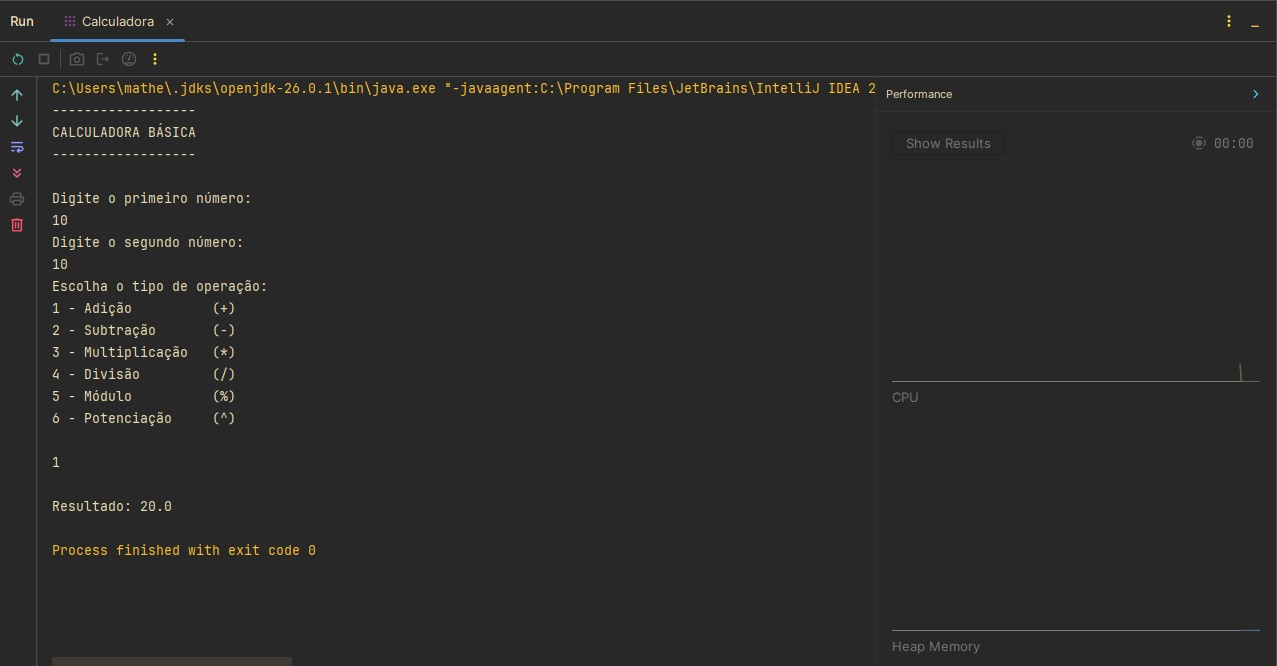
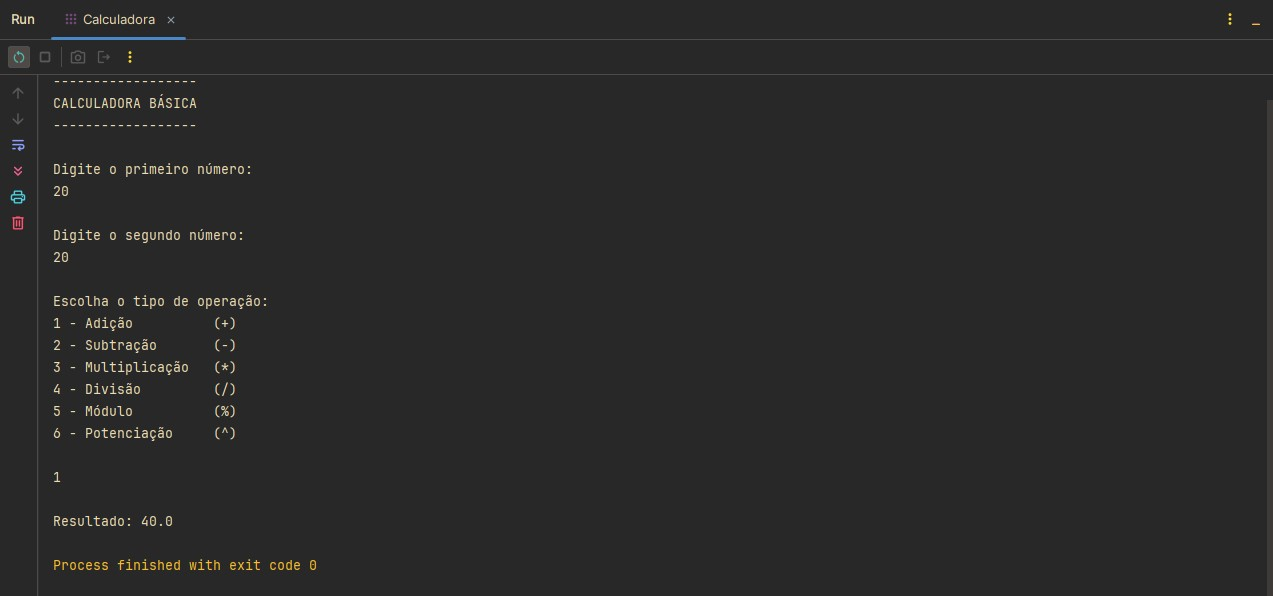
fix

diff --git a/src/Calculadora.java b/src/Calculadora.java
@@ -15,9 +15,11 @@ public class Calculadora {
 
         System.out.println("Digite o primeiro número: ");
         double n1 = entrada.nextDouble();
+        System.out.println();
 
         System.out.println("Digite o segundo número:");
         double n2 = entrada.nextDouble();
+        System.out.println();
 
         System.out.println("Escolha o tipo de operação: \n" +
                 "1 - Adição          (+)\n" +